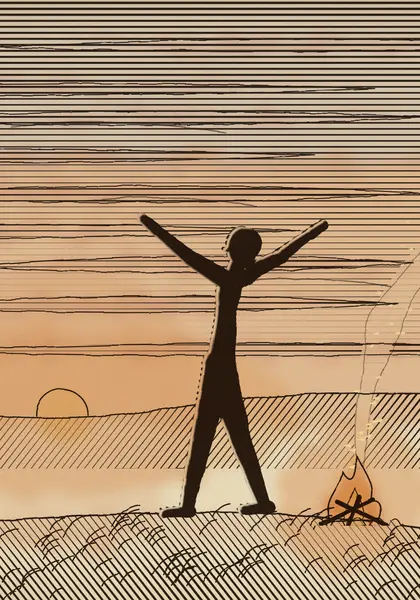
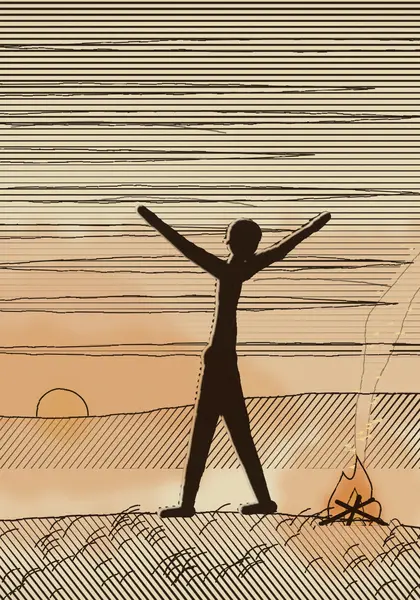
Portrait cards redrawn in the house style; their lights; the art check knows them
- The 20 portrait cards keep their settings, names and 420x600, now drawn by chroma-art/kit/scenes_portrait.js:
  a gender-neutral main character (close-cropped head, trousers, a hip-length jacket that never flares like a
  skirt; from behind, a tapered torso with the arms from both shoulders), one height per age in every colour, and
  colour washes only where there is light, as in the tarot cards (look.css lays the lead colour over the card).
- lights.json gains the 20 portraits' lights, cut to the card window (x 293..587, y 40..460) like the tarot cards;
  every other entry is unchanged.
- check_art.py checks the portrait group (5 colours x 4 ages, 420x600, 120 KB or less) and notes pictures without a
  lights entry, and entries for pictures that are gone.

Claude-Session: https://claude.ai/code/session_01CG5j2MpwuqcFUgxPs7fKXb

diff --git a/chroma-art/kit/check_art.py b/chroma-art/kit/check_art.py
@@ -5,12 +5,14 @@
 
 It checks the tree it sits in (a checkout, or the shared folder), or the tree CHROMA_ROOT names.
 
-Fast: every picture pictures.json names exists, has its size (880x500 events, 700x1000 tarot) and weight (120 KB or less);
+Fast: every picture pictures.json names exists, has its size (880x500 events, 700x1000 tarot, 420x600 portrait cards of
+the ink look, one per lead colour and age) and weight (120 KB or less);
 every life event the game runs (engine_pin: Earth and the three packs) has its own picture; every icon id in
 ink-icons.json is a symbol in ink-icons.svg; every moment the game runs has one icon per option and, for each icon, the
 text it was drawn for. Notes, not failures: option texts that differ from the game's batch (the game keeps an icon for
 words reworded in place, its web/src/live_icons.py, check C-G2), and a game copy of ink-option-texts.json that differs
-from this one (the Game copies this one over, then reruns live_icons.py).
+from this one (the Game copies this one over, then reruns live_icons.py), and pictures without an entry in lights.json
+or entries for pictures that are gone (rerun chroma-look/tools/extract_lights.js after adding or redrawing pictures).
 Full: also rebuilds ink-icons.svg and ink-icons.json from kit/glyph in a temporary folder and compares them with game/
 (the JSON byte for byte, the sprite symbol by symbol and mask by mask). In the shared folder, between a merge and the
 next publish, the kit may be ahead of the live game/: additions only are a note. A pass ends with "art check: pass".
@@ -49,9 +51,26 @@ for grp, wh in want.items():
 for key, rel in pics.get('texture', {}).items():
     f = os.path.join(GAME, rel); named.add(os.path.normpath(f))
     if not os.path.exists(f): fail(f'pictures.json texture "{key}": {rel} is missing')
+port = pics.get('portrait')   # the ink look's portrait cards: lead colour x age
+if port is not None:
+    for c in 'WUBRG':
+        for a in ('child', 'youth', 'adult', 'elder'):
+            rel = (port.get(c) or {}).get(a)
+            if not rel: fail(f'pictures.json portrait {c} {a} is not named'); continue
+            f = os.path.join(GAME, rel); named.add(os.path.normpath(f))
+            if not os.path.exists(f): fail(f'pictures.json portrait {c} {a}: {rel} is missing'); continue
+            if webp_size(f) != (420, 600): fail(f'pictures.json portrait {c} {a}: {rel} is {webp_size(f)}, not (420, 600)')
+            if os.path.getsize(f) > 120 * 1024: fail(f'{rel} weighs {os.path.getsize(f)} bytes, over 120 KB')
 if any(pics.get('missing', {}).values()): fail(f'pictures.json lists missing keys: {pics["missing"]}')
 unnamed = [os.path.basename(f) for f in glob.glob(os.path.join(GAME, 'pics', '*')) if os.path.normpath(f) not in named]
 if unnamed: notes.append(f'{len(unnamed)} files in game/pics are not named in pictures.json: {", ".join(sorted(unnamed)[:5])}')
+# the ink look's lights (lights.json, made from the kit's scenes by chroma-look/tools/extract_lights.js)
+if os.path.exists(os.path.join(GAME, 'lights.json')):
+    lights = json.load(open(os.path.join(GAME, 'lights.json'), encoding='utf-8'))
+    shown = {os.path.basename(f)[:-5] for f in named if f.endswith('.webp')} - {'unwritten-fabric'}
+    nolight, gone = sorted(shown - set(lights)), sorted(set(lights) - shown)
+    if nolight: notes.append(f'{len(nolight)} pictures have no entry in lights.json (rerun extract_lights.js): {", ".join(nolight[:5])}')
+    if gone: notes.append(f'lights.json has {len(gone)} entries for pictures pictures.json does not name: {", ".join(gone[:5])}')
 
 # the game's batch (its pinned Library copy): Earth and the three packs, situations and echoes
 def load(p, n):
@@ -114,7 +133,7 @@ if '--full' in sys.argv:
                     fail('the icons rebuilt from kit/glyph differ from game/ink-icons.json and ink-icons.svg, not only by additions')
 
 print(f'pictures: {len(pics["situation"])} situations, {len(pics["domain"])} domains, {len(pics["tier"])} tiers, '
-      f'{len(pics["tarot"])} tarot cards; {len(events)} life events in the game, {len(nopic)} without a picture')
+      f'{len(pics["tarot"])} tarot cards' + (f', {sum(len(v) for v in port.values())} portrait cards' if port else '') + f'; {len(events)} life events in the game, {len(nopic)} without a picture')
 print(f'icons: {len(symbols)} glyphs; {len(moments)} moments, {sum(len(s["options"]) for s in moments)} options in the game; '
       f'{len(opt)} moments mapped' + ('; rebuilt from the kit' if '--full' in sys.argv else ''))
 for n in notes: print('note:', n)
